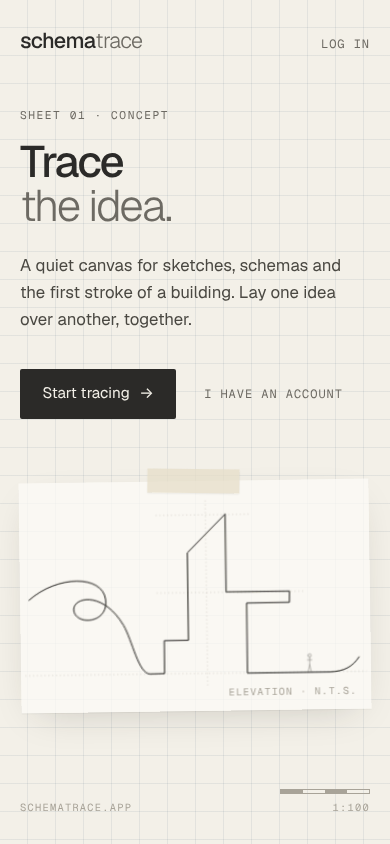
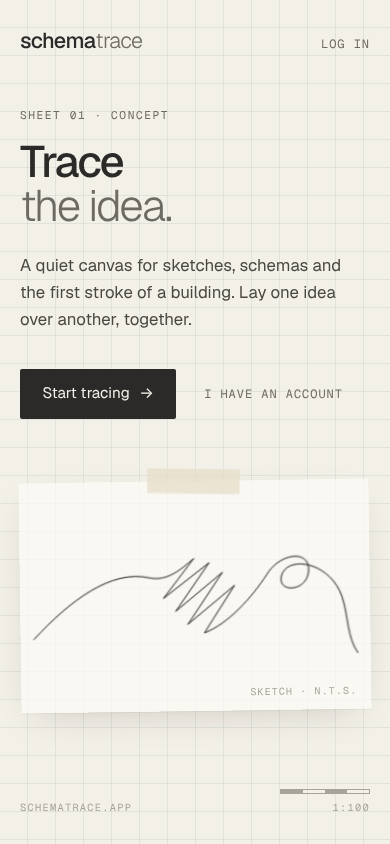
Landing: a plain pencil scribble instead of a building
A long sweep, a burst of back-and-forth strokes, one small turn and a flick.
Drops the construction lines and scale figure.

Claude-Session: https://claude.ai/code/session_01KqAWEHwyCioNtwHjQqFsc1

diff --git a/src/components/landing/TraceSketch.tsx b/src/components/landing/TraceSketch.tsx
@@ -1,60 +1,32 @@
 import styles from "./landing.module.css";
 
 /*
- * A side elevation, drawn as one line: the pencil drifts in with a single loose turn, settles onto the
- * ground line, rises into the profile of a building (a low plinth, a tower with a sloped roof, a
- * cantilevered slab), comes back down and runs off along the ground before it lifts.
- * One continuous path, so a CSS dash animation can trace it (see the CSS module for timing).
+ * A loose pencil scribble, drawn as one line: a long sweep in, a burst of quick back-and-forth strokes,
+ * a single small turn, and a flick off the paper. One continuous path, so a CSS dash animation can trace it
+ * (see the CSS module for timing).
  */
-
-type P = [number, number];
-
-const G = 352; // ground line
-
-// The building profile, left to right, in screen units of the 640×420 sheet.
-const profile: P[] = [
-  [236, G],
-  [262, G], [262, 292], // plinth
-  [306, 292], [306, 132], // tower, left face
-  [376, 62], // sloped roof
-  [376, 204], // tower, right face down to the slab
-  [492, 204], [492, 224], // cantilever
-  [414, 224], [414, G], // back under the slab, down to the ground
-  [566, G], // ground runs on
-];
-
-/** A tiny, repeatable wobble so ruled lines look drawn by hand. */
-const wobble = (i: number) => Math.sin(i * 12.9898) * 0.7;
-const n = (v: number) => Math.round(v * 10) / 10;
-
-const D =
-  // One loose turn, then down onto the ground line.
-  `M 16 214 C 70 168, 150 170, 156 214 S 104 262, 98 236 S 150 196, 188 262 ` +
-  `C 204 290, 214 ${G}, ${profile[0][0]} ${G}` +
-  profile.slice(1).map(([x, y], i) => ` L ${n(x + wobble(i))} ${n(y + wobble(i + 9))}`).join("") +
-  // Lift off the paper.
-  ` C 590 ${G}, 606 ${G - 8}, 618 ${G - 26}`;
-
-// Faint construction lines that settle in once the profile is traced, plus a figure for scale.
-const guides = [
-  `M 8 ${G} L 632 ${G}`, // ground, ruled across the sheet
-  `M 341 ${G + 22} L 341 36`, // tower axis
-  `M 250 62 L 420 62`, // roof level
-  `M 250 204 L 520 204`, // slab level
+const D = [
+  "M 24 286",
+  "C 92 214, 168 160, 236 176", // long sweep in
+  "C 270 184, 296 160, 318 142", // and up
+  // quick back-and-forth, like shading a corner of an idea
+  "L 262 214 L 346 150 L 284 238 L 370 168 L 306 262 L 392 192 L 336 278",
+  "C 380 262, 424 214, 452 172",
+  "C 476 134, 530 128, 528 166", // one small turn
+  "C 526 206, 470 208, 478 176",
+  "C 488 138, 566 150, 588 214", // and the flick off the paper
+  "C 600 250, 596 290, 616 318",
 ].join(" ");
-const figure = `M 528 ${G - 30} m -3 0 a 3 3 0 1 0 6 0 a 3 3 0 1 0 -6 0 M 528 ${G - 27} L 528 ${G - 13} L 525 ${G} M 528 ${G - 13} L 531 ${G} M 524 ${G - 22} L 532 ${G - 22}`;
 
 export function TraceSketch() {
   return (
-    <svg className={styles.sketch} viewBox="0 0 640 420" role="img" aria-label="A pencil line drifts in and traces the side elevation of a building">
+    <svg className={styles.sketch} viewBox="0 0 640 420" role="img" aria-label="A pencil scribble drawing itself across a sheet of tracing paper">
       <defs>
         <filter id="graphite" x="-5%" y="-5%" width="110%" height="110%">
           <feTurbulence type="fractalNoise" baseFrequency="0.9" numOctaves="2" seed="4" result="grain" />
           <feDisplacementMap in="SourceGraphic" in2="grain" scale="1.4" />
         </filter>
       </defs>
-      <path className={styles.guides} d={guides} />
-      <path className={styles.figure} d={figure} />
       <g filter="url(#graphite)">
         <path className={`${styles.stroke} ${styles.ghost}`} d={D} pathLength={1} />
         <path className={styles.stroke} d={D} pathLength={1} />

diff --git a/src/components/landing/landing.module.css b/src/components/landing/landing.module.css
@@ -154,23 +154,7 @@
   transform: translate(1.4px, -0.8px);
   animation-delay: 0.12s;
 }
-.guides {
-  fill: none;
-  stroke: var(--faint);
-  stroke-width: 0.7;
-  stroke-dasharray: 2 5;
-  opacity: 0;
-  animation: guides 11s linear infinite;
-}
 .tip { fill: var(--graphite); animation: tip 11s linear infinite; }
-.figure {
-  fill: none;
-  stroke: var(--pencil);
-  stroke-width: 0.9;
-  stroke-linecap: round;
-  opacity: 0;
-  animation: guides 11s linear infinite;
-}
 
 /* 0–62% the line is traced, then it rests, then it lifts off the paper and starts again. */
 @keyframes trace {
@@ -178,11 +162,6 @@
   62% { stroke-dashoffset: 0; opacity: 1; }
   90% { stroke-dashoffset: 0; opacity: 1; }
   98%, 100% { stroke-dashoffset: 0; opacity: 0; }
-}
-@keyframes guides {
-  0%, 60% { opacity: 0; }
-  70%, 88% { opacity: 1; }
-  96%, 100% { opacity: 0; }
 }
 @keyframes tip {
   0%, 60% { opacity: 1; }
@@ -209,7 +188,7 @@
 .scaleBar i:nth-child(odd) { background: var(--faint); }
 
 @media (prefers-reduced-motion: reduce) {
-  .stroke, .guides, .figure { animation: none; stroke-dashoffset: 0; opacity: 1; }
+  .stroke { animation: none; stroke-dashoffset: 0; opacity: 1; }
   .ghost { opacity: 0.55; }
   .tip { display: none; }
 }

diff --git a/src/app/page.tsx b/src/app/page.tsx
@@ -39,7 +39,7 @@ export default async function Home() {
         <figure className={styles.sheet}>
           <span className={styles.tape} aria-hidden />
           <TraceSketch />
-          <figcaption className={styles.sheetMeta}>Elevation · n.t.s.</figcaption>
+          <figcaption className={styles.sheetMeta}>Sketch · n.t.s.</figcaption>
         </figure>
       </main>
 
